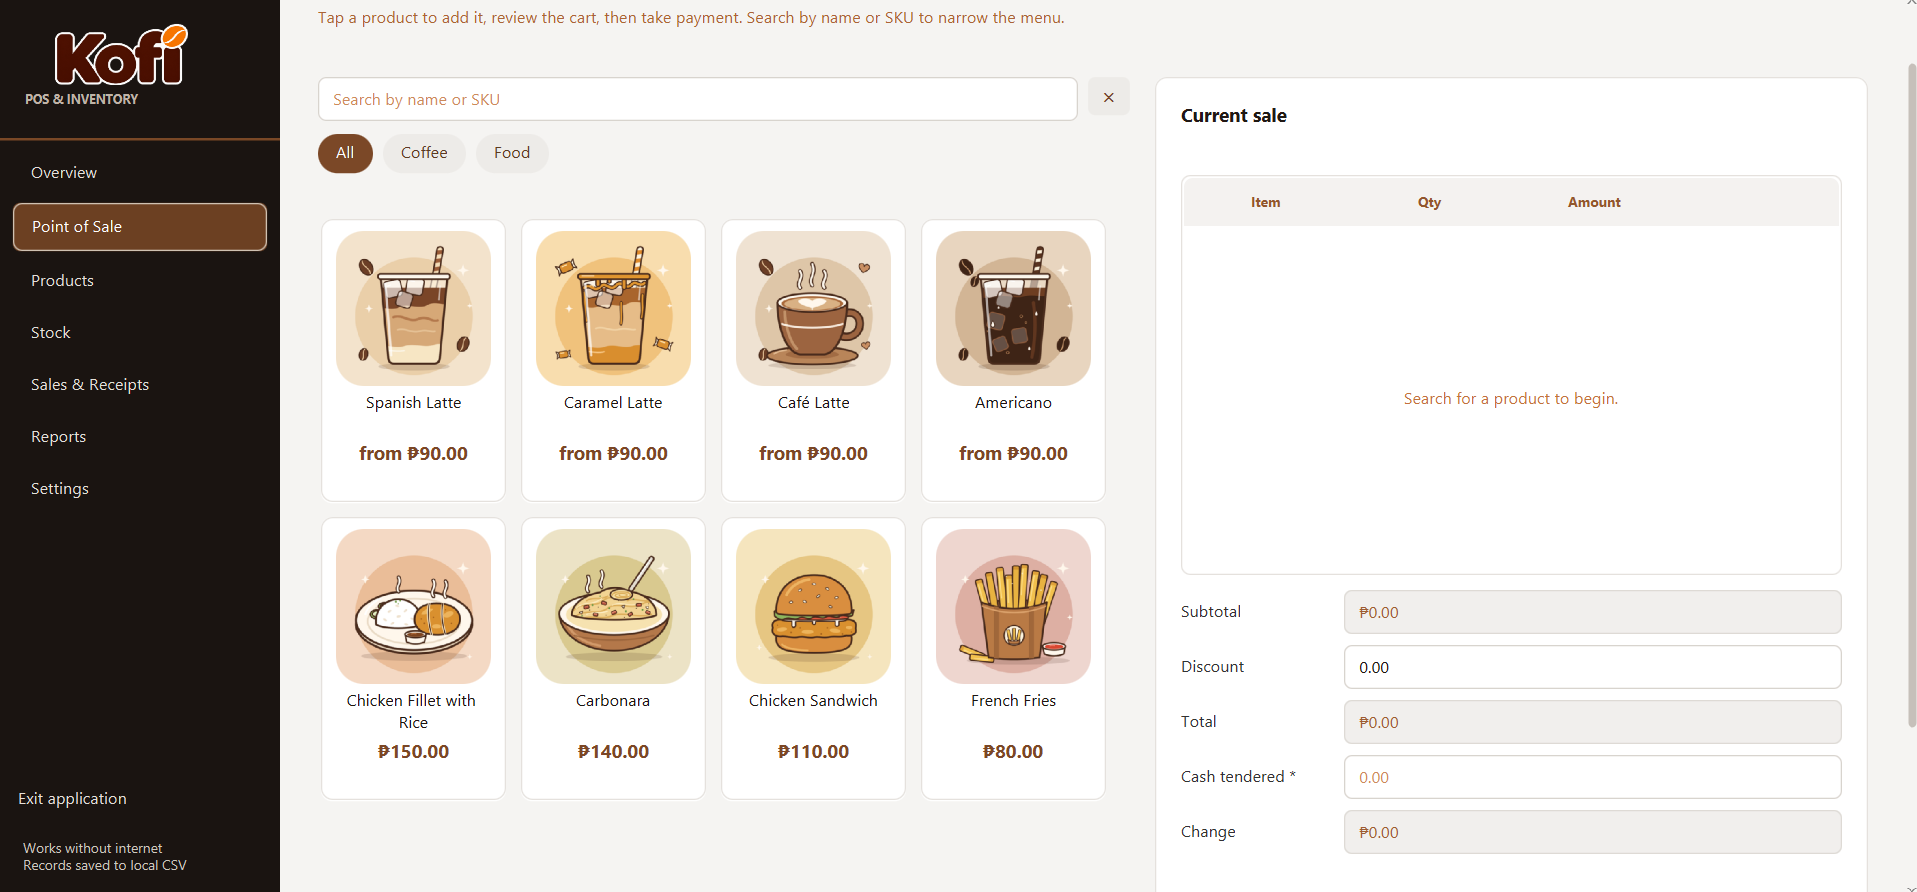
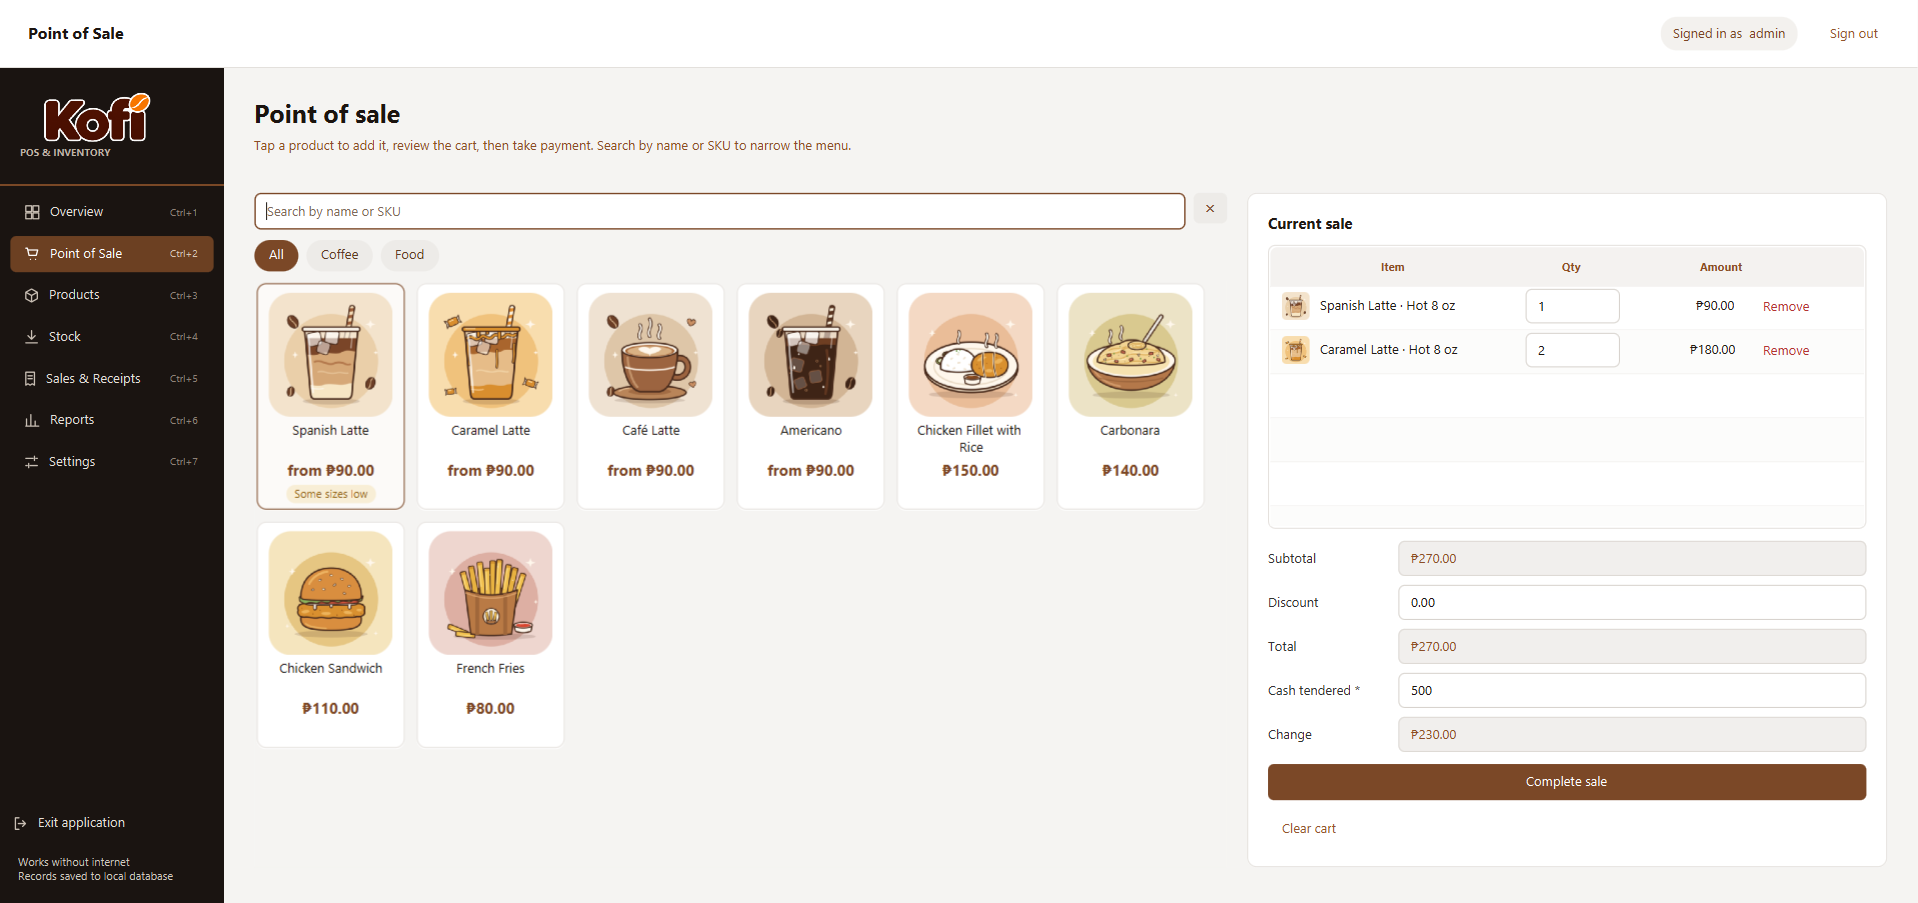
Document the UI refresh and update screenshots
Add a keyboard shortcuts table to the README, describe messages, keyboard and
the colour tokens in DESIGN.md, list the new Toast, Dialogs and NavIcons
helpers in the architecture and code-walkthrough docs, note the status in
implementation.md, and replace the README screenshots and animated GIF with
the refreshed screens.

diff --git a/implementation.md b/implementation.md
@@ -26,7 +26,7 @@ The assignment's employee attendance sentence is a sample project description, n
 - Checkout saves a receipt, sale lines, stock decrements, and corresponding stock movements. Receipt numbers use `R-YYYYMMDD-####`. Voiding requires a reason (150 characters maximum), restores the sold quantities, records the reversal, and preserves the original sale as voided.
 - Stock movement quantity is a positive integer. Stock In adds stock. Stock Out and Adjust decrease stock and cannot exceed on-hand quantity. Out and Adjust require a note (200 characters maximum); reference is optional (50 characters maximum).
 - Report dates use `YYYY-MM-DD`, default to today, reject future dates, and require From ≤ To. Store name is required (80 characters); address (150) and receipt footer (200) are optional.
-- Text formatters reject invalid numeric/date characters as the user types. Invalid fields show a red border and inline error; required fields are marked `*`, and the relevant save/checkout button stays disabled until valid. Inputs trim on focus loss, money displays as `₱#,##0.00` on blur, text areas show character counts, and read-only fields use a grey style. Enter submits the screen's primary action; Escape clears/cancels the current form or dialog.
+- Text formatters reject invalid numeric/date characters as the user types. Invalid fields show a red border and inline error once the field has been edited or left; required fields are marked `*`, and the relevant save/checkout button stays disabled until valid. Inputs trim on focus loss, money displays as `₱#,##0.00` on blur, text areas show character counts, and read-only fields use a grey style. Enter submits the screen's primary action; Escape clears/cancels the current form or dialog.
 
 ## Assignment requirements mapped to the POS
 
@@ -62,6 +62,7 @@ Sorting and searching required for the assignment will use explicit loops/recurs
 - `src/main/java/com/kofi/pos/data/PosRepository.java` — persistence port implemented by `SqlitePosRepository`.
 - `src/main/resources/seed/seed.sql` — initial products, demo user, and store settings.
 - `src/main/resources/style.css` — shared JavaFX look and control states.
+- `src/main/java/com/kofi/pos/ui/common/` — shared UI helpers, including `Toast`, `Dialogs` and `NavIcons`; `style.css` holds the colour tokens.
 - `docs/architecture.md` and `docs/code-walkthrough.md` — dependency map, SOLID choices, and the main code paths explained in order.
 
 Keep screens in Java code unless a view is substantially clearer in FXML. Persistence is a local SQLite database accessed through plain JDBC (`sqlite-jdbc`); avoid adding a database server, ORM, state-management framework, or extra UI library.
@@ -78,6 +79,7 @@ Keep screens in Java code unless a view is substantially clearer in FXML. Persis
 ## Current implementation status
 
 - The project compiles with `mvn compile` (SQLite integration included).
+- UI refresh (colour tokens and contrast, toasts, named confirmation dialogs, keyboard shortcuts, responsive checkout layout) is implemented; screens were rendered and the shortcuts exercised with a scratch harness against a throwaway database.
 - A headless check of `SqlitePosRepository` against a fresh database passed: first-launch seed (20 products, 1 user), save then reload, and reset to defaults.
 - SQL seed data, all seven modules, local persistence, and the assignment data-structure/algorithm mappings are implemented.
 

diff --git a/docs/code-walkthrough.md b/docs/code-walkthrough.md
@@ -9,7 +9,7 @@ This guide follows the main execution paths; every Java file additionally carrie
 3. The constructor finds the next stock movement ID, rebuilds the recent activity `Stack`, then refreshes the FIFO restock `Queue`.
 4. [`showLogin`](../src/main/java/com/kofi/pos/app/PosApp.java) trims and bounds the username, then calls `authenticate` when the user submits.
 5. [`authenticate`](../src/main/java/com/kofi/pos/service/PosService.java) finds the local account and compares a PBKDF2 hash using `MessageDigest.isEqual`.
-6. [`showShell`](../src/main/java/com/kofi/pos/app/PosApp.java) creates the sidebar, top bar, and module content host.
+6. [`showShell`](../src/main/java/com/kofi/pos/app/PosApp.java) creates the sidebar, top bar, and module content host, places the `Toast` layer above them, and registers the keyboard shortcuts (`installShortcuts`: Ctrl+1 to Ctrl+7, Ctrl+F, `/`, Ctrl+Enter). `showModule` moves the cursor to the screen's search box when it has one.
 7. [`showModule`](../src/main/java/com/kofi/pos/app/PosApp.java) selects a view class, gives it only the collaborators it needs, wraps the view in a `ScrollPane`, and updates the active navigation style.
 
 ## Product editing
@@ -56,11 +56,11 @@ This guide follows the main execution paths; every Java file additionally carrie
 
 ## Reset to default data
 
-1. [`SettingsView.resetPanel`](../src/main/java/com/kofi/pos/ui/view/SettingsView.java) shows a confirmation dialog, then calls `PosService.resetToDefaults`.
+1. [`SettingsView.resetPanel`](../src/main/java/com/kofi/pos/ui/view/SettingsView.java) asks `Dialogs.confirm` (a red "Reset data" button, with Cancel as the Enter default), then calls `PosService.resetToDefaults`.
 2. The service calls `PosRepository.resetToDefaults`, implemented by `SqlitePosRepository`.
 3. The repository replaces the six database tables with the records in `/seed/seed.sql` inside one transaction, then reads them back into a `StoreData` snapshot.
 4. The service's `applySnapshot` clears and refills every collection and rebuilds the activity stack and restock queue.
-5. The view shows a notice and reloads the Settings screen and sidebar.
+5. The view shows a toast notice and reloads the Settings screen and sidebar.
 
 ## SQLite read/write
 

diff --git a/DESIGN.md b/DESIGN.md
@@ -110,7 +110,11 @@ Use gently rounded corners for fields, buttons, and panels. Read-only fields use
 
 ## Components
 
-Buttons share one shape and clear primary, secondary, quiet, and destructive roles. Inputs use a neutral border, a visible brown focus state, and a red invalid state. Tables use restrained striping and a tinted selection row. Navigation uses light text on the dark rail with a stronger green active row.
+Buttons share one shape and clear primary, secondary, quiet, and destructive roles. Inputs use a neutral border, a visible brown focus state, and a red invalid state. Tables use restrained striping and a tinted selection row; money and quantity columns are right-aligned, and low or out-of-stock rows say "Low" or "Out" in words as well as colour. Navigation uses an outline icon, light text and its shortcut on the dark rail, with a coffee-brown active row.
+
+**Messages.** Confirmations appear as a toast at the bottom right and fade after about three seconds; an error toast stays until clicked. Confirmation dialogs name their action ("Delete product", "Reset data"), turn the action button red when it is destructive, and never make a destructive action the Enter default. Field errors stay beside the field and appear only after the field has been edited or left, so a blank form is not shown in red.
+
+**Keyboard.** Every control shows one brown focus ring. Ctrl+1 to Ctrl+7 switch screens, Ctrl+F or `/` focus the screen's search box, Ctrl+Enter completes a sale, and Esc clears the current form. Screens with a search box open with the cursor in it.
 
 ## Do's and Don'ts
 

diff --git a/docs/architecture.md b/docs/architecture.md
@@ -28,7 +28,8 @@ The dependency direction is intentional. `PosService` depends on the small `PosR
 | `src/main/java/com/kofi/pos/Launcher.java` | Plain entry point (used by `run.cmd`, `javafx:run`, IDEs); starts `PosApp`. |
 | `src/main/java/com/kofi/pos/app/PosApp.java` | JavaFX startup, sign-in, navigation, application shell, and screen wiring. |
 | `src/main/java/com/kofi/pos/ui/view/` | One view per module plus the receipt dialog. |
-| `src/main/java/com/kofi/pos/ui/common/` | Shared field/layout helpers (`UiSupport`) and the product table. |
+| `src/main/java/com/kofi/pos/ui/common/` | Shared field/layout helpers (`UiSupport`), the product table, `Toast` (bottom-right messages), `Dialogs` (styled confirmations that name their action) and `NavIcons` (sidebar icons drawn as vector paths). |
+| `src/main/resources/style.css` | The shared look: colour tokens (`-kofi-*`), controls, tables, toasts and dialogs. |
 | `src/main/java/com/kofi/pos/service/PosService.java` | In-memory collections (ArrayList, LinkedList, Stack, Queue), validation, product/sale/stock rules, reports, reset. |
 | `src/main/java/com/kofi/pos/algorithm/` | Hand-written insertion/selection sort, linear/binary search, recursive sum. |
 | `src/main/java/com/kofi/pos/security/PasswordHasher.java` | PBKDF2 password verification. |

diff --git a/README.md b/README.md
@@ -56,6 +56,18 @@ To open the project in an IDE, import it as a Maven project and run `com.kofi.po
 - **Username:** `admin`
 - **Password:** `admin123`
 
+## Keyboard shortcuts
+
+| Keys | Action |
+|---|---|
+| Ctrl+1 to Ctrl+7 | Switch between Overview, Point of Sale, Products, Stock, Sales & Receipts, Reports and Settings |
+| Ctrl+F or `/` | Move to the search box on the current screen |
+| Ctrl+Enter | Complete the sale on Point of Sale (when the payment is valid) |
+| Enter | Run the screen's main action, for example Complete sale from the cash field |
+| Esc | Clear the search box or the current form; on Point of Sale, Esc pressed outside the search box clears the cart |
+
+Shortcuts also appear in the sidebar and in button tooltips.
+
 ## Your local data
 
 - On first launch, Kofi creates `data/kofi-pos.db` and loads its starter records from `src/main/resources/seed/seed.sql`.
